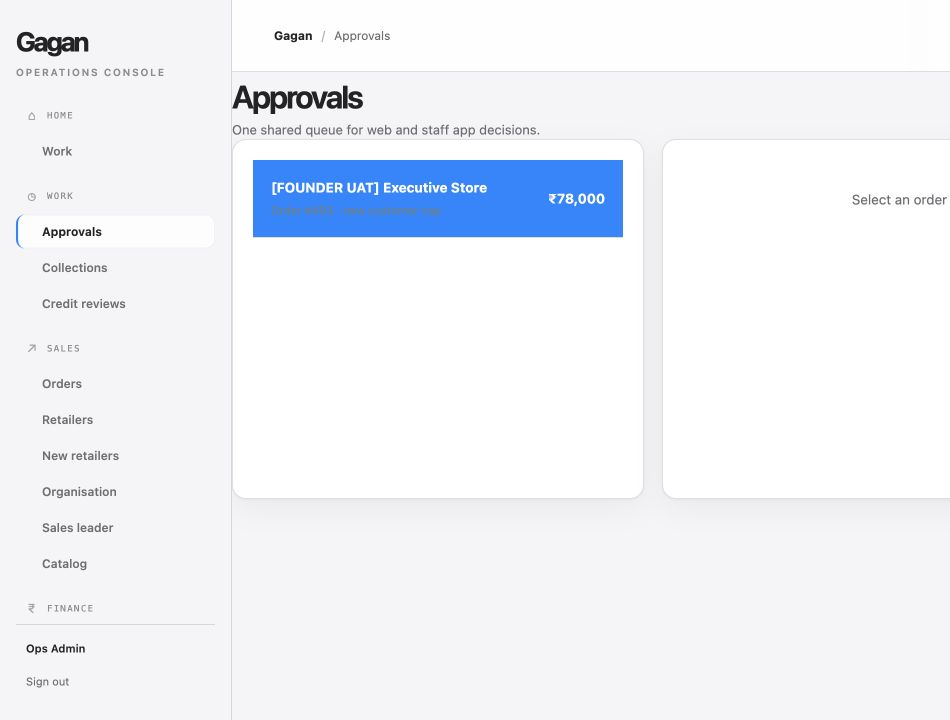
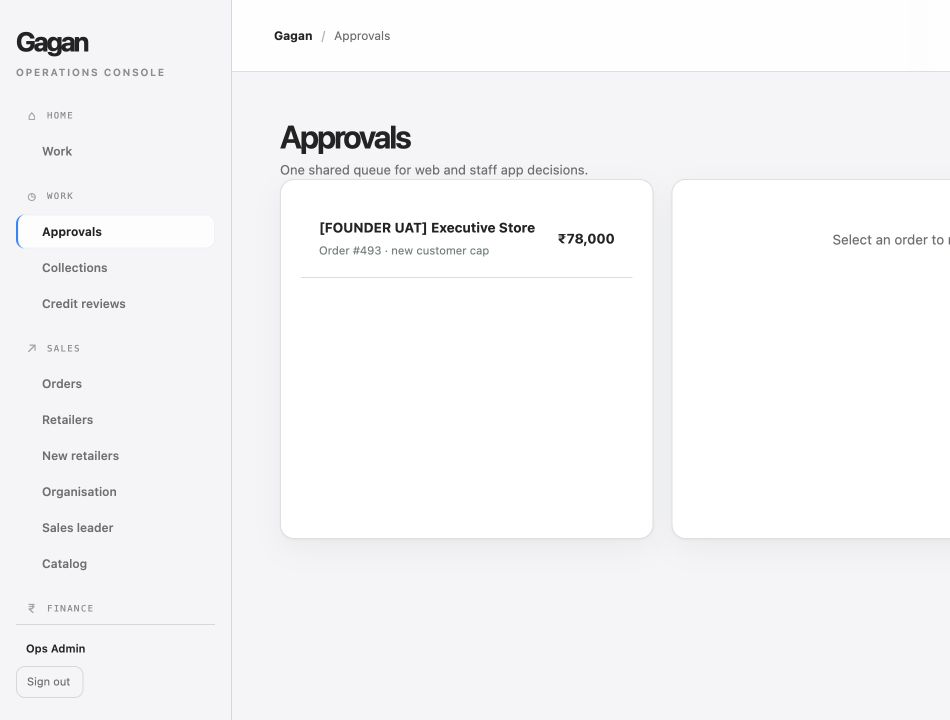
Fix shared Admin selection styling

Changed region(s): [[0.2442, 0.1222, 0.6716, 0.3667], [0.8853, 0.275, 1.0, 0.3361], [0.0305, 0.9167, 0.0611, 0.9778]]

diff --git a/admin/src/index.css b/admin/src/index.css
@@ -545,6 +545,7 @@ button:active { transform: scale(.99); }
 .environment-tag i { width: 6px; height: 6px; border-radius: 50%; background: var(--oi-blue); box-shadow: 0 0 0 3px rgba(10, 132, 255, .12); }
 .app-avatar { display: grid; place-items: center; width: 30px; height: 30px; border-radius: 50%; color: var(--oi-blue); background: var(--oi-blue-soft); font-size: 10px; font-weight: 700; }
 .route-stage { min-width: 0; }
+.route-stage > div:not(.page-shell):not(.empty-state):not(.detail-narrow) { width: 100%; margin: 0 auto; padding: 40px 48px 72px; }
 .page-shell { width: 100%; max-width: 1500px; margin: 0 auto; padding: 40px 48px 72px; }
 .page-header, .operating-header { display: flex; align-items: flex-start; justify-content: space-between; gap: 24px; margin-bottom: 28px; }
 .eyebrow, .section-label { display: block; margin: 0; color: var(--oi-subtle); font: 10px ui-monospace, SFMono-Regular, Menlo, monospace; letter-spacing: .12em; text-transform: uppercase; }
@@ -569,10 +570,10 @@ button:active { transform: scale(.99); }
 .text-action, .link-button, a { color: var(--oi-blue); }
 .text-action:hover, .link-button:hover, a:hover { color: #0066cc; }
 
-button, .button { min-height: 36px; border-radius: 9px; }
+button, .button { min-height: 36px; border: 1px solid var(--oi-line); border-radius: 9px; color: var(--oi-ink); background: var(--oi-paper); }
 .button { display: inline-flex; align-items: center; justify-content: center; gap: 8px; padding: 8px 14px; border: 1px solid transparent; font-size: 12px; font-weight: 650; white-space: nowrap; }
-.button.primary, button:not(.secondary):not(.ghost):not(.tab):not(.nav-link):not(.link-button):not(.text-button):not(.dock-more) { background: var(--oi-blue); color: #fff; }
-.button.primary:hover, button:not(.secondary):not(.ghost):not(.tab):not(.nav-link):not(.link-button):not(.text-button):not(.dock-more):hover { background: #0077ed; }
+.button.primary, button:not(:is(.secondary, .ghost, .tab, .nav-link, .link-button, .text-button, .dock-more, .approval-row, .order-table-row, .priority-row, .flow-node-button, .stage-rail button, .glance-visual)) { border-color: transparent; background: var(--oi-blue); color: #fff; }
+.button.primary:hover, button:not(:is(.secondary, .ghost, .tab, .nav-link, .link-button, .text-button, .dock-more, .approval-row, .order-table-row, .priority-row, .flow-node-button, .stage-rail button, .glance-visual)):hover { background: #0077ed; }
 .button.secondary, button.secondary { border: 1px solid var(--oi-line); color: var(--oi-ink); background: var(--oi-paper); }
 .button.secondary:hover, button.secondary:hover { border-color: rgba(10, 132, 255, .32); background: var(--oi-blue-soft); }
 .button.compact, button.sm { min-height: 32px; padding: 6px 10px; font-size: 11px; }
@@ -580,6 +581,7 @@ button, .button { min-height: 36px; border-radius: 9px; }
 .secondary-action, .danger-outline { color: var(--oi-red) !important; border: 1px solid rgba(208, 68, 56, .38) !important; background: var(--oi-red-soft) !important; }
 .ghost { color: var(--oi-muted); background: transparent; }
 .ghost:hover { color: var(--oi-ink); background: rgba(118, 118, 128, .08); }
+button.approval-row:hover, button.approval-row:focus-visible { color: var(--oi-ink); background: #f1f4f8; }
 
 input, select, textarea { width: 100%; padding: 9px 10px; border: 1px solid var(--oi-line); border-radius: 9px; color: var(--oi-ink); background: var(--oi-paper); transition: border-color 180ms ease, box-shadow 180ms ease; }
 input::placeholder, textarea::placeholder { color: #a4a4aa; }
@@ -896,6 +898,7 @@ tr:last-child td { border-bottom: 0; }
 
 @media (max-width: 1180px) {
   .page-shell { padding-inline: 34px; }
+  .route-stage > div:not(.page-shell):not(.empty-state):not(.detail-narrow) { padding-inline: 34px; }
   .instrument-triad { grid-template-columns: 1fr 1fr; }
   .age-panel { grid-column: span 2; }
   .orders-layout { grid-template-columns: minmax(0, 1fr) 210px; }
@@ -904,6 +907,7 @@ tr:last-child td { border-bottom: 0; }
   .sidebar { width: 204px; flex-basis: 204px; }
   .app-topbar { padding-inline: 28px; }
   .page-shell { padding-inline: 28px; }
+  .route-stage > div:not(.page-shell):not(.empty-state):not(.detail-narrow) { padding-inline: 28px; }
   .command-strip { grid-template-columns: repeat(2, 1fr); }
   .flow-track { min-width: 780px; }
   .flow-map { overflow-x: auto; }
@@ -917,6 +921,7 @@ tr:last-child td { border-bottom: 0; }
   .main { min-width: 0; }
   .app-topbar { padding-inline: 18px; }
   .page-shell { padding: 28px 18px 52px; }
+  .route-stage > div:not(.page-shell):not(.empty-state):not(.detail-narrow) { padding: 28px 18px 52px; }
   .page-header, .operating-header, .workspace-heading { display: block; }
   .header-context { padding-top: 15px; }
   .stage-rail { overflow-x: auto; grid-template-columns: repeat(6, minmax(125px, 1fr)); }
